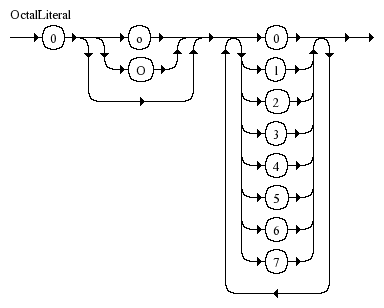
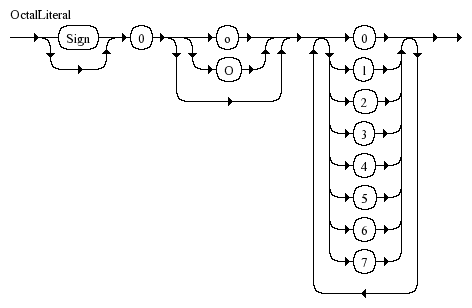
Factor out leading sign into own diagram

diff --git a/objects.html b/objects.html
@@ -129,6 +129,7 @@
                 <figure class=railroad>
                   <img id=digit>
                   <img id=non-zero-digit>
+                  <img id=plus-minus>
                   <img id=decimal-literal>
                 </figure>
 
@@ -143,8 +144,8 @@
                 objects.</p>
 
                 <figure class=railroad>
-                  <img id=hexadecimal-literal>
-                  <img id=binary-literal>
+                  <img class=centre id=hexadecimal-literal>
+                  <img class=centre id=binary-literal>
                   <img class=centre id=octal-literal>
                 </figure>
 
